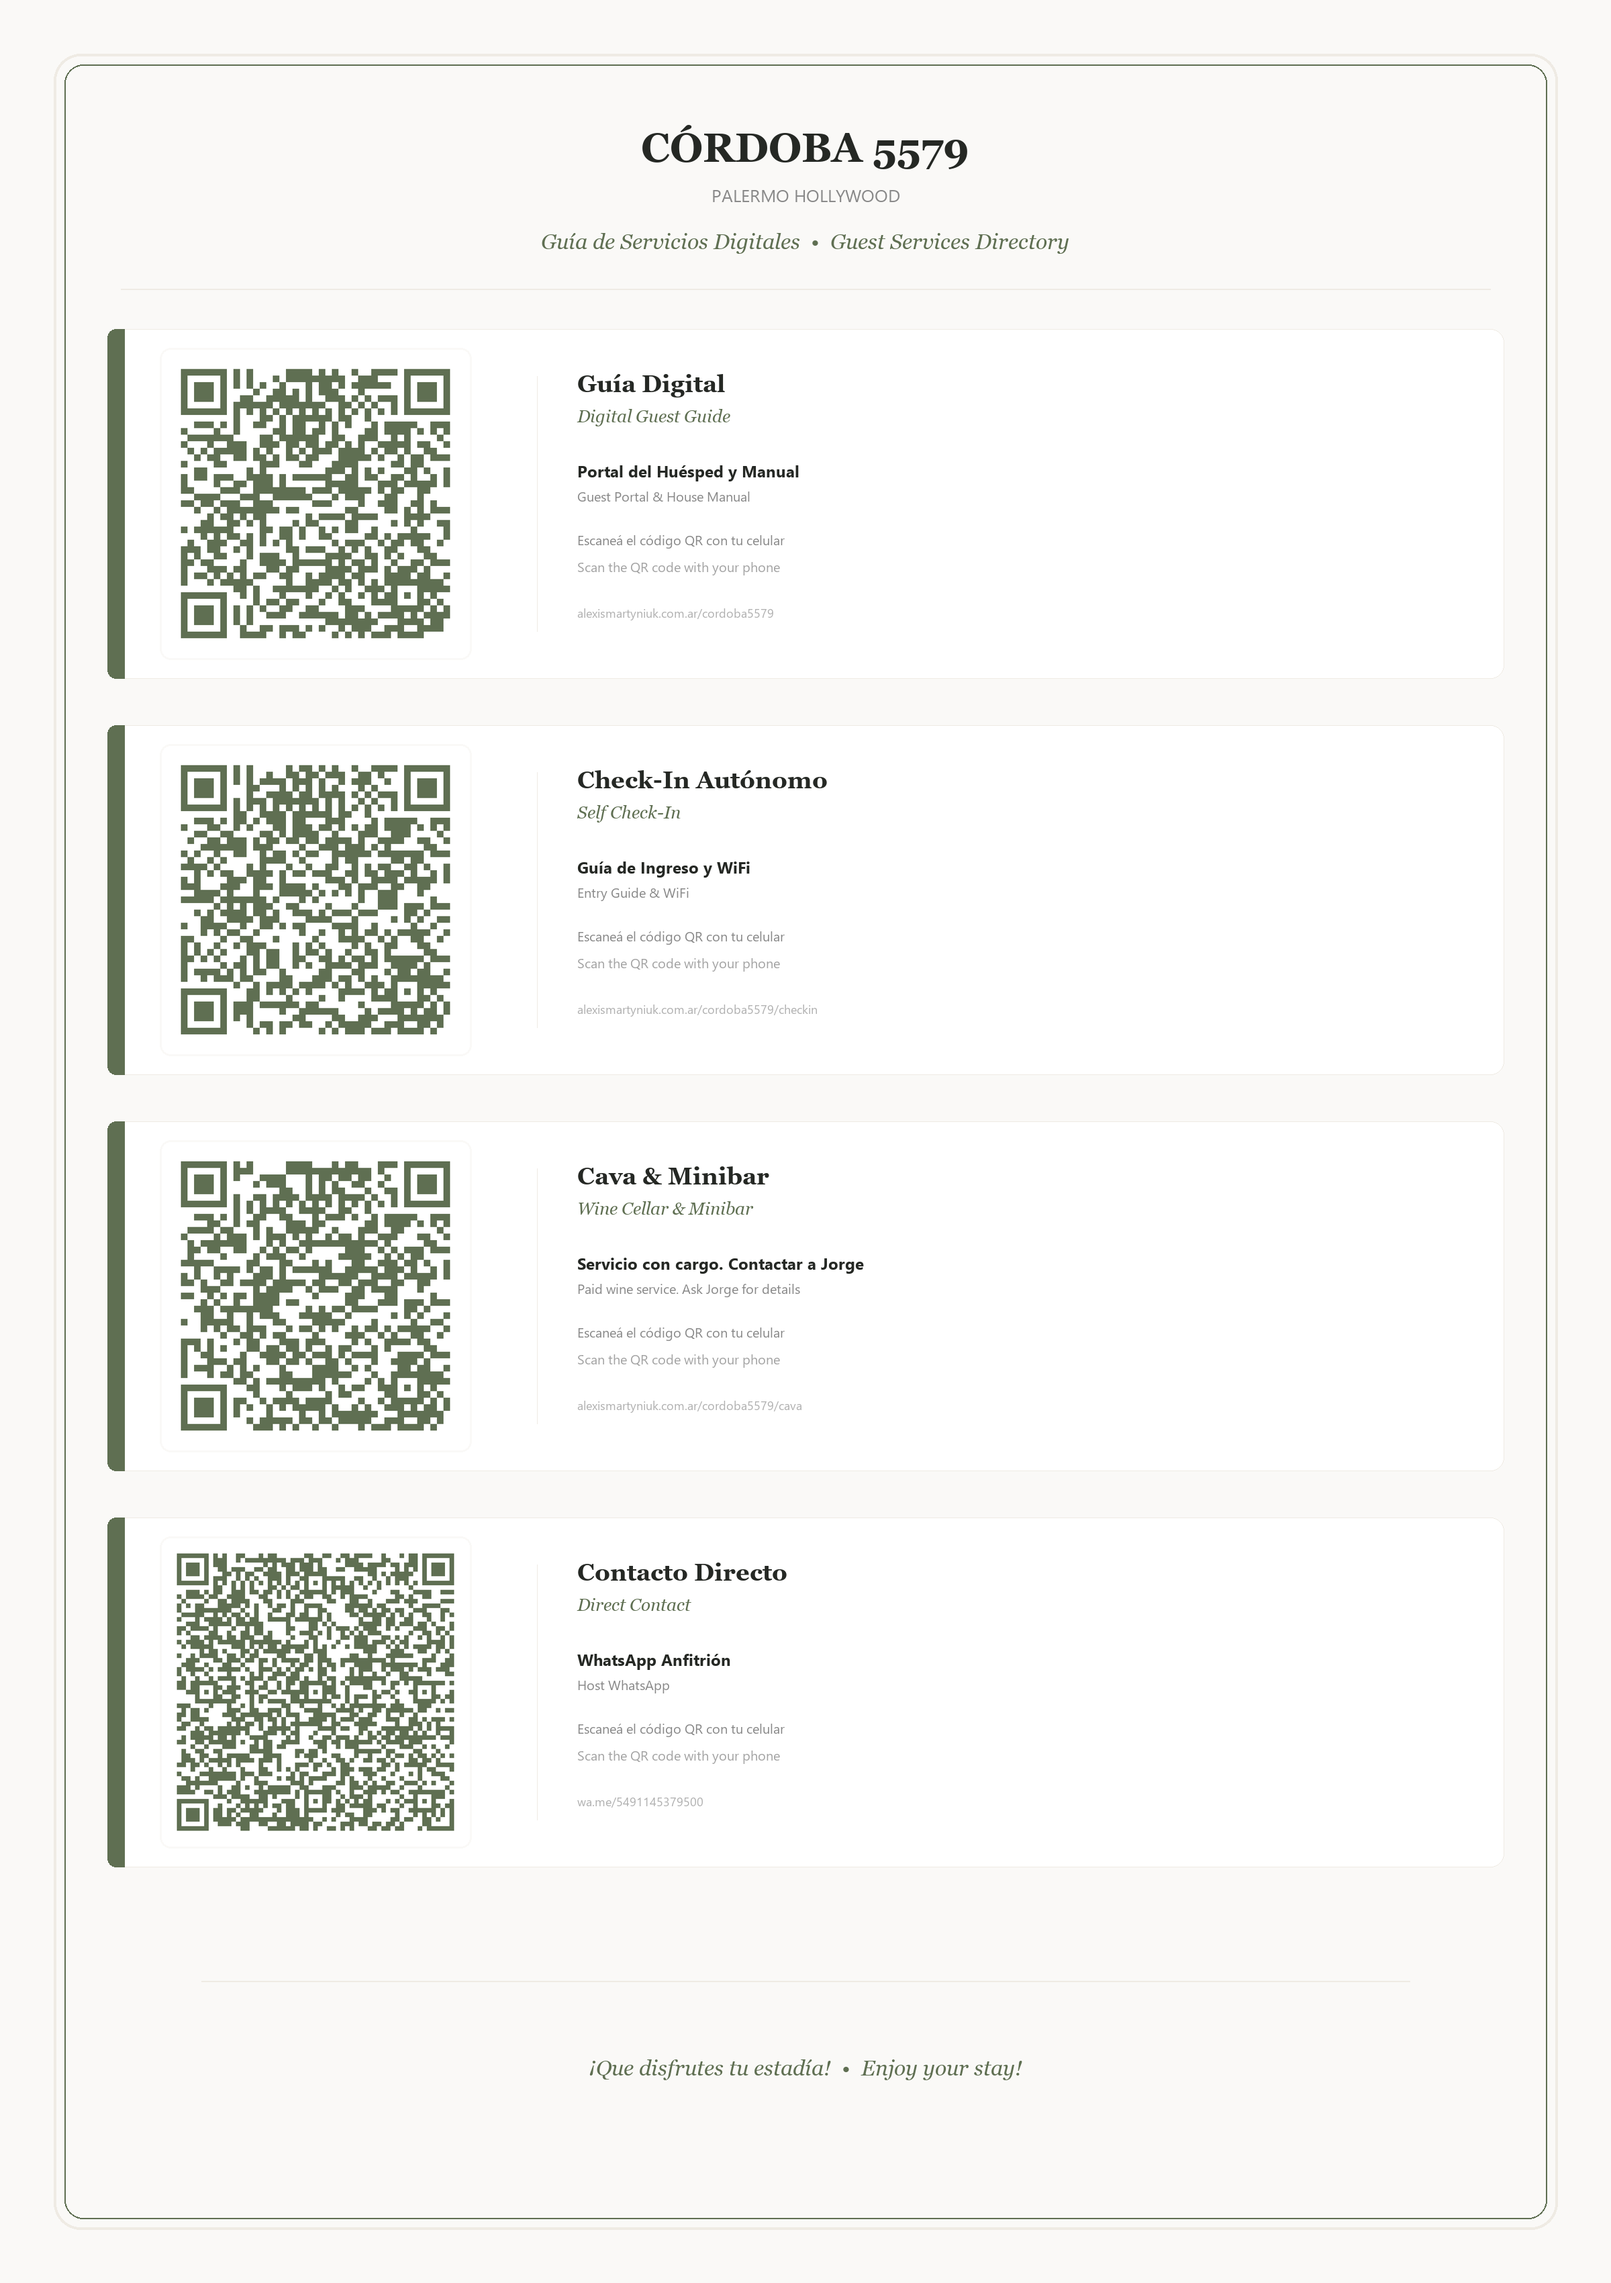
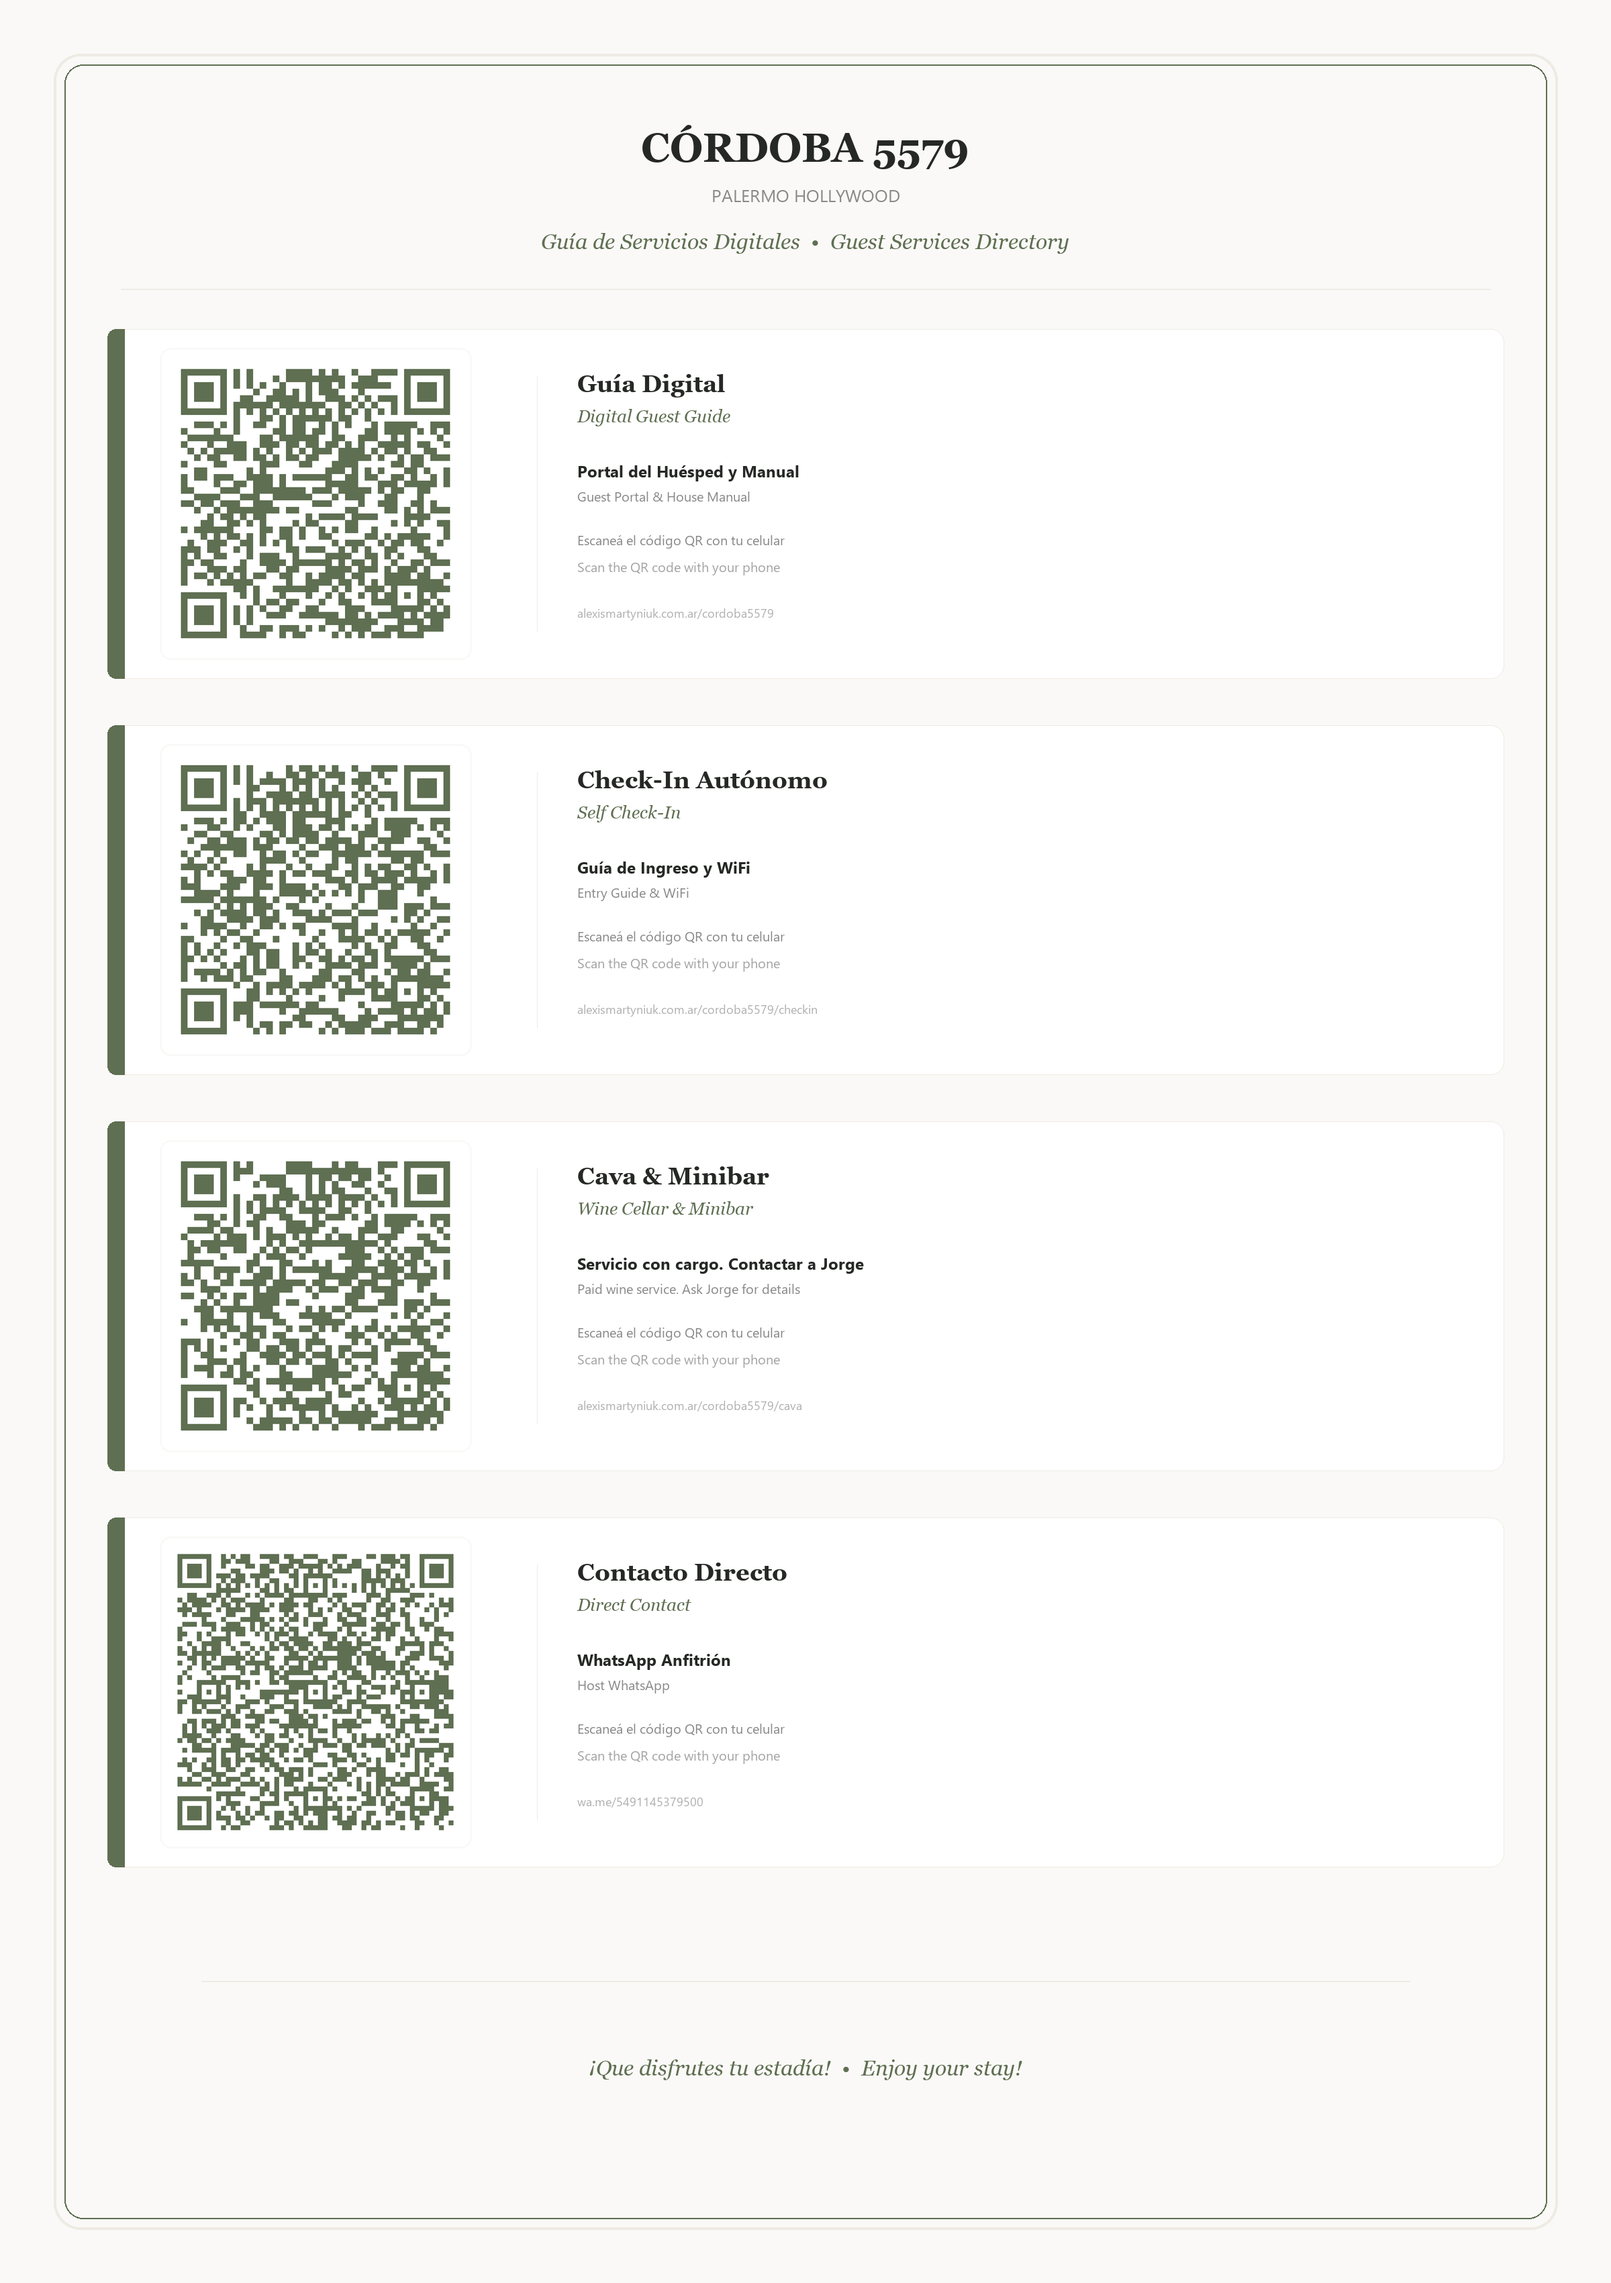
feat: add floating WhatsApp button to Cava page and update WhatsApp QR code with shorter URL

Changed region(s): [[0.0938, 0.6547, 0.2812, 0.8106]]

diff --git a/src/app/cava/page.tsx b/src/app/cava/page.tsx
@@ -365,6 +365,22 @@ export default function CavaPage() {
           {currentT.cava_disclaimer}
         </div>
       </main>
+
+      {/* Floating WhatsApp Button */}
+      <a
+        href="https://wa.me/5491145379500?text=Hola%20Jorge%21%20Te%20escribo%20desde%20la%20Cava%20de%20C%C3%B3rdoba%205579."
+        target="_blank"
+        rel="noopener noreferrer"
+        className="fixed bottom-6 right-6 z-50 bg-[#25D366] hover:bg-[#20BA5A] text-white p-3.5 rounded-full shadow-lg hover:shadow-xl transition-all duration-300 hover:scale-110 flex items-center justify-center group"
+        aria-label="Contact via WhatsApp"
+      >
+        <svg className="w-6 h-6 fill-current" viewBox="0 0 24 24" xmlns="http://www.w3.org/2000/svg">
+          <path d="M.057 24l1.687-6.163c-1.041-1.804-1.588-3.849-1.587-5.946C.06 5.348 5.397.01 12.008.01c3.202.001 6.212 1.246 8.477 3.514 2.266 2.268 3.507 5.28 3.505 8.484-.004 6.657-5.34 11.997-11.953 11.997-2.005-.001-3.973-.502-5.724-1.455L0 24zm6.59-4.846c1.6.95 3.188 1.449 4.825 1.451 5.436 0 9.86-4.37 9.864-9.799.002-2.63-1.023-5.101-2.885-6.963C16.57 2.025 14.091.995 11.46.995c-5.437 0-9.862 4.37-9.866 9.8-.001 1.777.472 3.51 1.372 5.061l-.972 3.555 3.654-.958zm12.39-7.14c-.324-.162-1.92-.949-2.218-1.055-.298-.108-.515-.162-.73.163-.217.324-.838 1.056-1.029 1.27-.19.217-.38.244-.704.082-1.037-.518-1.806-.948-2.51-2.155-.572-.982-.376-1.514-.175-1.936.14-.298.324-.543.486-.73.162-.19.216-.324.324-.541.109-.217.054-.407-.027-.57-.081-.162-.73-1.761-.999-2.413-.263-.629-.529-.543-.728-.553l-.622-.008c-.217 0-.568.082-.865.407-.297.325-1.134 1.11-1.134 2.71 0 1.6 1.162 3.143 1.324 3.359.162.217 2.28 3.48 5.523 4.881.771.332 1.374.53 1.842.678.775.247 1.48.212 2.038.129.621-.093 1.92-.785 2.19-1.542.27-.756.27-1.406.19-1.542-.082-.136-.297-.217-.621-.38z"/>
+        </svg>
+        <span className="absolute right-16 bg-neutral-900 text-white text-[10px] font-bold px-2 py-1 rounded shadow-md opacity-0 group-hover:opacity-100 transition-opacity duration-300 whitespace-nowrap pointer-events-none">
+          {language === "es" ? "Consultar a Jorge" : "Message Jorge"}
+        </span>
+      </a>
     </div>
   );
 }

diff --git a/scripts/generate_qrs.py b/scripts/generate_qrs.py
@@ -5,7 +5,7 @@ import os
 import io
 
 BASE_URL = "https://www.alexismartyniuk.com.ar/cordoba5579"
-WHATSAPP_URL = "https://wa.me/5491145379500?text=Hola%21%20Quería%20consultar%20disponibilidad%20para%20el%20departamento%20de%20Córdoba%205579."
+WHATSAPP_URL = "https://wa.me/5491145379500?text=Hola%20Jorge%21%20Te%20escribo%20desde%20el%20depto%20C%C3%B3rdoba%205579."
 
 CODES = [
     {
@@ -307,43 +307,6 @@ def make_unified_sheet() -> Image.Image:
     draw.text((W // 2, 3080), "¡Que disfrutes tu estadía!  •  Enjoy your stay!", fill="#5F6F52", font=font_footer, anchor="mm")
 
     return card.convert("RGB")
-
-
-def main():
-    print("Generating QR Cards for Cordoba 5579...")
-    for code in CODES:
-        card = make_card(code)
-        out_path = os.path.join(OUTPUT_DIR, f"qr_{code['name']}.png")
-        card.save(out_path, "PNG", dpi=(300, 300))
-        print(f"  [OK] Saved: {out_path}")
-        
-    print("\nGenerating Unified Guide Sheet...")
-    sheet = make_unified_sheet()
-    sheet_path = os.path.join(OUTPUT_DIR, "qr_unified_sheet.png")
-    sheet.save(sheet_path, "PNG", dpi=(300, 300))
-    print(f"  [OK] Saved: {sheet_path}")
-    
-    print(f"\n[DONE] Find your print-ready QR cards in: {OUTPUT_DIR}")
-    print("   Recommended print size: 10x12.5 cm at 300 DPI")
-
-
-
-
-
-    # Bottom Footer section
-    draw.line([(300, 3050), (W - 300, 3050)], fill="#EFEBE4", width=2)
-    draw.text((W // 2, 3160), "¡Que disfrutes tu estadía!  •  Enjoy your stay!", fill="#5F6F52", font=font_footer, anchor="mm")
-
-    return card.convert("RGB")
-
-
-
-
-
-
-
-
-
 
 
 def main():
